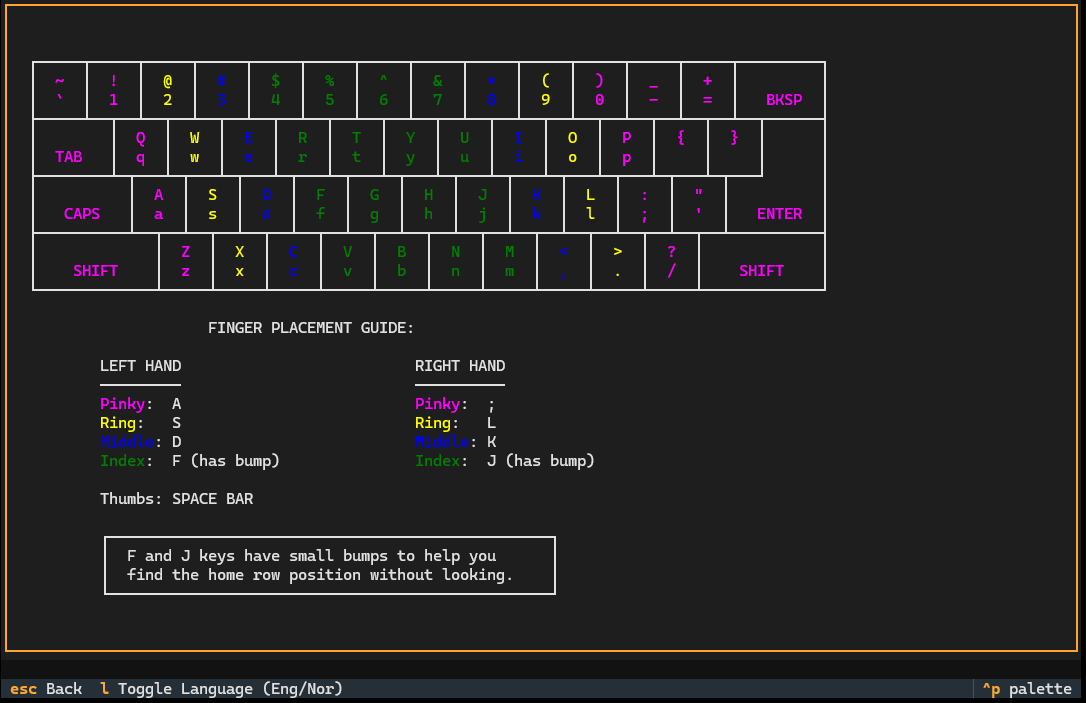
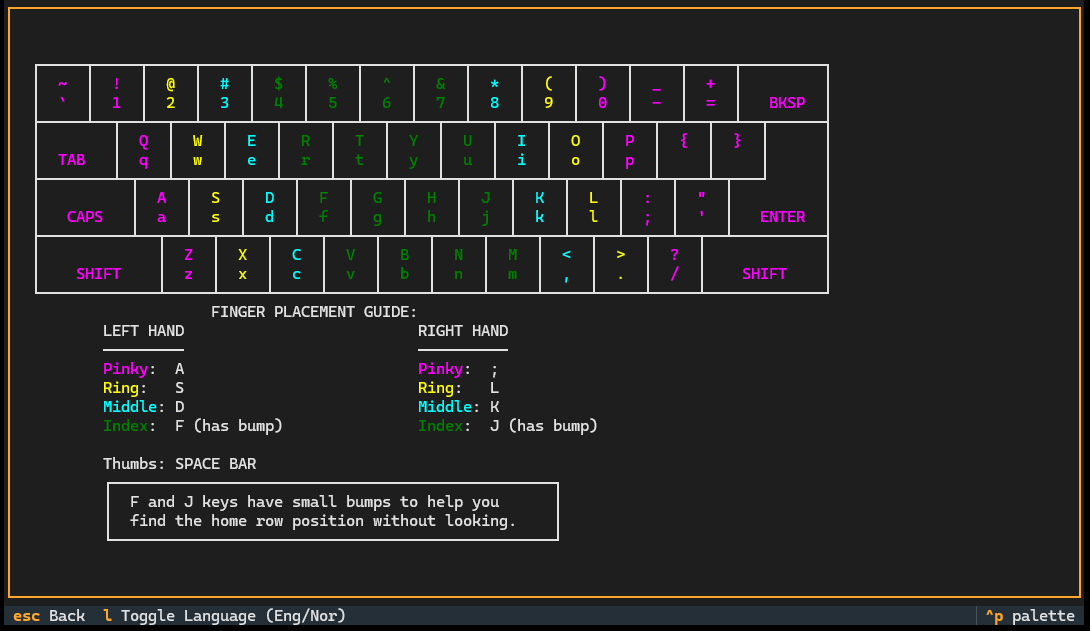
Refactor code structure for improved readability and maintainability

Changed region(s): [[0.0, 0.0, 1.0, 0.9937], [0.0912, 0.5119, 0.5166, 0.8732]]

diff --git a/typing_trainer/views/finger_map_view.py b/typing_trainer/views/finger_map_view.py
@@ -8,30 +8,27 @@ from textual.reactive import reactive
 
 FINGER_MAP_ENGLISH = """
 ┌─────┬─────┬─────┬─────┬─────┬─────┬─────┬─────┬─────┬─────┬─────┬─────┬─────┬─────────┐
-│[magenta]  ~ [/magenta] │[magenta]  ! [/magenta] │[yellow]  @  [/yellow]│[blue]  #  [/blue]│[green]  $  [/green]│[green]  %  [/green]│[green]  ^  [/green]│[green]  &  [/green]│[blue]  *  [/blue]│[yellow]  (  [/yellow]│[magenta]  ) [/magenta] │[magenta]  _ [/magenta] │[magenta]  + [/magenta] │[magenta]        [/magenta] │
-│[magenta]  ` [/magenta] │[magenta]  1 [/magenta] │[yellow]  2  [/yellow]│[blue]  3  [/blue]│[green]  4  [/green]│[green]  5  [/green]│[green]  6  [/green]│[green]  7  [/green]│[blue]  8  [/blue]│[yellow]  9  [/yellow]│[magenta]  0 [/magenta] │[magenta]  - [/magenta] │[magenta]  = [/magenta] │[magenta]   BKSP [/magenta] │
+│[magenta]  ~ [/magenta] │[magenta]  ! [/magenta] │[yellow]  @  [/yellow]│[cyan]  #  [/cyan]│[green]  $  [/green]│[green]  %  [/green]│[green]  ^  [/green]│[green]  &  [/green]│[cyan]  *  [/cyan]│[yellow]  (  [/yellow]│[magenta]  ) [/magenta] │[magenta]  _ [/magenta] │[magenta]  + [/magenta] │[magenta]        [/magenta] │
+│[magenta]  ` [/magenta] │[magenta]  1 [/magenta] │[yellow]  2  [/yellow]│[cyan]  3  [/cyan]│[green]  4  [/green]│[green]  5  [/green]│[green]  6  [/green]│[green]  7  [/green]│[cyan]  8  [/cyan]│[yellow]  9  [/yellow]│[magenta]  0 [/magenta] │[magenta]  - [/magenta] │[magenta]  = [/magenta] │[magenta]   BKSP [/magenta] │
 ├─────┴──┬──┴──┬──┴──┬──┴──┬──┴──┬──┴──┬──┴──┬──┴──┬──┴──┬──┴──┬──┴──┬──┴──┬──┴──┬──────┤
-│[magenta]       [/magenta] │[magenta]  Q [/magenta] │[yellow]  W  [/yellow]│[blue]  E  [/blue]│[green]  R  [/green]│[green]  T  [/green]│[green]  Y  [/green]│[green]  U  [/green]│[blue]  I  [/blue]│[yellow]  O  [/yellow]│[magenta]  P [/magenta] │[magenta]  { [/magenta] │[magenta]  } [/magenta] │[magenta]     [/magenta] │
-│[magenta]  TAB  [/magenta] │[magenta]  q [/magenta] │[yellow]  w  [/yellow]│[blue]  e  [/blue]│[green]  r  [/green]│[green]  t  [/green]│[green]  y  [/green]│[green]  u  [/green]│[blue]  i  [/blue]│[yellow]  o  [/yellow]│[magenta]  p [/magenta] │[magenta]    [/magenta] │[magenta]    [/magenta] │[magenta]     [/magenta] │
+│[magenta]       [/magenta] │[magenta]  Q [/magenta] │[yellow]  W  [/yellow]│[cyan]  E  [/cyan]│[green]  R  [/green]│[green]  T  [/green]│[green]  Y  [/green]│[green]  U  [/green]│[cyan]  I  [/cyan]│[yellow]  O  [/yellow]│[magenta]  P [/magenta] │[magenta]  { [/magenta] │[magenta]  } [/magenta] │[magenta]     [/magenta] │
+│[magenta]  TAB  [/magenta] │[magenta]  q [/magenta] │[yellow]  w  [/yellow]│[cyan]  e  [/cyan]│[green]  r  [/green]│[green]  t  [/green]│[green]  y  [/green]│[green]  u  [/green]│[cyan]  i  [/cyan]│[yellow]  o  [/yellow]│[magenta]  p [/magenta] │[magenta]    [/magenta] │[magenta]    [/magenta] │[magenta]     [/magenta] │
 ├────────┴─┬───┴─┬───┴─┬───┴─┬───┴─┬───┴─┬───┴─┬───┴─┬───┴─┬───┴─┬───┴─┬───┴─┬───┘      │
-│[magenta]         [/magenta] │[magenta]  A [/magenta] │[yellow]  S  [/yellow]│[blue]  D  [/blue]│[green]  F  [/green]│[green]  G  [/green]│[green]  H  [/green]│[green]  J  [/green]│[blue]  K  [/blue]│[yellow]  L  [/yellow]│[magenta]  : [/magenta] │[magenta]  " [/magenta] │[magenta]         [/magenta] │
-│[magenta]   CAPS  [/magenta] │[magenta]  a [/magenta] │[yellow]  s  [/yellow]│[blue]  d  [/blue]│[green]  f  [/green]│[green]  g  [/green]│[green]  h  [/green]│[green]  j  [/green]│[blue]  k  [/blue]│[yellow]  l  [/yellow]│[magenta]  ; [/magenta] │[magenta]  ' [/magenta] │[magenta]   ENTER [/magenta] │
+│[magenta]         [/magenta] │[magenta]  A [/magenta] │[yellow]  S  [/yellow]│[cyan]  D  [/cyan]│[green]  F  [/green]│[green]  G  [/green]│[green]  H  [/green]│[green]  J  [/green]│[cyan]  K  [/cyan]│[yellow]  L  [/yellow]│[magenta]  : [/magenta] │[magenta]  " [/magenta] │[magenta]         [/magenta] │
+│[magenta]   CAPS  [/magenta] │[magenta]  a [/magenta] │[yellow]  s  [/yellow]│[cyan]  d  [/cyan]│[green]  f  [/green]│[green]  g  [/green]│[green]  h  [/green]│[green]  j  [/green]│[cyan]  k  [/cyan]│[yellow]  l  [/yellow]│[magenta]  ; [/magenta] │[magenta]  ' [/magenta] │[magenta]   ENTER [/magenta] │
 ├──────────┴──┬──┴──┬──┴──┬──┴──┬──┴──┬──┴──┬──┴──┬──┴──┬──┴──┬──┴──┬──┴──┬──┴──────────┤
-│[magenta]            [/magenta] │[magenta]  Z [/magenta] │[yellow]  X  [/yellow]│[blue]  C  [/blue]│[green]  V  [/green]│[green]  B  [/green]│[green]  N  [/green]│[green]  M  [/green]│[blue]  <  [/blue]│[yellow]  >  [/yellow]│[magenta]  ? [/magenta] │[magenta]            [/magenta] │
-│[magenta]    SHIFT   [/magenta] │[magenta]  z [/magenta] │[yellow]  x  [/yellow]│[blue]  c  [/blue]│[green]  v  [/green]│[green]  b  [/green]│[green]  n  [/green]│[green]  m  [/green]│[blue]  ,  [/blue]│[yellow]  .  [/yellow]│[magenta]  / [/magenta] │[magenta]    SHIFT   [/magenta] │
+│[magenta]            [/magenta] │[magenta]  Z [/magenta] │[yellow]  X  [/yellow]│[cyan]  C  [/cyan]│[green]  V  [/green]│[green]  B  [/green]│[green]  N  [/green]│[green]  M  [/green]│[cyan]  <  [/cyan]│[yellow]  >  [/yellow]│[magenta]  ? [/magenta] │[magenta]            [/magenta] │
+│[magenta]    SHIFT   [/magenta] │[magenta]  z [/magenta] │[yellow]  x  [/yellow]│[cyan]  c  [/cyan]│[green]  v  [/green]│[green]  b  [/green]│[green]  n  [/green]│[green]  m  [/green]│[cyan]  ,  [/cyan]│[yellow]  .  [/yellow]│[magenta]  / [/magenta] │[magenta]    SHIFT   [/magenta] │
 └─────────────┴─────┴─────┴─────┴─────┴─────┴─────┴─────┴─────┴─────┴─────┴─────────────┘
-
                     FINGER PLACEMENT GUIDE:
-        
         LEFT HAND                          RIGHT HAND
         ─────────                          ──────────
         [magenta]Pinky[/magenta]:  A                          [magenta]Pinky[/magenta]:  ;
         [yellow]Ring[/yellow]:   S                          [yellow]Ring[/yellow]:   L
-        [blue]Middle[/blue]: D                          [blue]Middle[/blue]: K
+        [cyan]Middle[/cyan]: D                          [cyan]Middle[/cyan]: K
         [green]Index[/green]:  F (has bump)               [green]Index[/green]:  J (has bump)
         
         Thumbs: SPACE BAR
-        
         ┌─────────────────────────────────────────────────┐
         │  F and J keys have small bumps to help you      │
         │  find the home row position without looking.    │
@@ -39,32 +36,28 @@ FINGER_MAP_ENGLISH = """
 """
 
 FINGER_MAP_NORWEGIAN = """
-
 ┌─────┬─────┬─────┬─────┬─────┬─────┬─────┬─────┬─────┬─────┬─────┬─────┬─────┬──────────┐
-│[magenta]  ~ [/magenta] │[magenta]  ! [/magenta] │[yellow]  @  [/yellow]│[blue]  #  [/blue]│[green]  $  [/green]│[green]  %  [/green]│[green]  ^  [/green]│[green]  &  [/green]│[blue]  *  [/blue]│[yellow]  (  [/yellow]│[magenta]  ) [/magenta] │[magenta]  _ [/magenta] │[magenta]  + [/magenta] │[magenta]       [/magenta]   │
-│[magenta]  ` [/magenta] │[magenta]  1 [/magenta] │[yellow]  2  [/yellow]│[blue]  3  [/blue]│[green]  4  [/green]│[green]  5  [/green]│[green]  6  [/green]│[green]  7  [/green]│[blue]  8  [/blue]│[yellow]  9  [/yellow]│[magenta]  0 [/magenta] │[magenta]  - [/magenta] │[magenta]  = [/magenta] │[magenta]   BKSP  [/magenta] │
+│[magenta]  ~ [/magenta] │[magenta]  ! [/magenta] │[yellow]  @  [/yellow]│[cyan]  #  [/cyan]│[green]  $  [/green]│[green]  %  [/green]│[green]  ^  [/green]│[green]  &  [/green]│[cyan]  *  [/cyan]│[yellow]  (  [/yellow]│[magenta]  ) [/magenta] │[magenta]  _ [/magenta] │[magenta]  + [/magenta] │[magenta]       [/magenta]   │
+│[magenta]  ` [/magenta] │[magenta]  1 [/magenta] │[yellow]  2  [/yellow]│[cyan]  3  [/cyan]│[green]  4  [/green]│[green]  5  [/green]│[green]  6  [/green]│[green]  7  [/green]│[cyan]  8  [/cyan]│[yellow]  9  [/yellow]│[magenta]  0 [/magenta] │[magenta]  - [/magenta] │[magenta]  = [/magenta] │[magenta]   BKSP  [/magenta] │
 ├─────┴──┬──┴──┬──┴──┬──┴──┬──┴──┬──┴──┬──┴──┬──┴──┬──┴──┬──┴──┬──┴──┬──┴──┬──┴──┬───────┤
-│[magenta]       [/magenta] │[magenta]  Q [/magenta] │[yellow]  W  [/yellow]│[blue]  E  [/blue]│[green]  R  [/green]│[green]  T  [/green]│[green]  Y  [/green]│[green]  U  [/green]│[blue]  I  [/blue]│[yellow]  O  [/yellow]│[magenta]  P [/magenta] │[magenta]  Å [/magenta] │[magenta]  ^ [/magenta] │[magenta]    [/magenta]   │
-│[magenta]  TAB  [/magenta] │[magenta]  q [/magenta] │[yellow]  w  [/yellow]│[blue]  e  [/blue]│[green]  r  [/green]│[green]  t  [/green]│[green]  y  [/green]│[green]  u  [/green]│[blue]  i  [/blue]│[yellow]  o  [/yellow]│[magenta]  p [/magenta] │[magenta]  å [/magenta] │[magenta] ¨ ~[/magenta] │[magenta] ENTER [/magenta]│
+│[magenta]       [/magenta] │[magenta]  Q [/magenta] │[yellow]  W  [/yellow]│[cyan]  E  [/cyan]│[green]  R  [/green]│[green]  T  [/green]│[green]  Y  [/green]│[green]  U  [/green]│[cyan]  I  [/cyan]│[yellow]  O  [/yellow]│[magenta]  P [/magenta] │[magenta]  Å [/magenta] │[magenta]  ^ [/magenta] │[magenta]    [/magenta]   │
+│[magenta]  TAB  [/magenta] │[magenta]  q [/magenta] │[yellow]  w  [/yellow]│[cyan]  e  [/cyan]│[green]  r  [/green]│[green]  t  [/green]│[green]  y  [/green]│[green]  u  [/green]│[cyan]  i  [/cyan]│[yellow]  o  [/yellow]│[magenta]  p [/magenta] │[magenta]  å [/magenta] │[magenta] ¨ ~[/magenta] │[magenta] ENTER [/magenta]│
 ├────────┴─┬───┴─┬───┴─┬───┴─┬───┴─┬───┴─┬───┴─┬───┴─┬───┴─┬───┴─┬───┴─┬───┴─┬───┴─┐     │
-│[magenta]         [/magenta] │[magenta]  A [/magenta] │[yellow]  S  [/yellow]│[blue]  D  [/blue]│[green]  F  [/green]│[green]  G  [/green]│[green]  H  [/green]│[green]  J  [/green]│[blue]  K  [/blue]│[yellow]  L  [/yellow]│[magenta]  Ø [/magenta] │[magenta]  Æ [/magenta] │[magenta]  * [/magenta] │[magenta]    [/magenta] │
-│[magenta]   CAPS  [/magenta] │[magenta]  a [/magenta] │[yellow]  s  [/yellow]│[blue]  d  [/blue]│[green]  f  [/green]│[green]  g  [/green]│[green]  h  [/green]│[green]  j  [/green]│[blue]  k  [/blue]│[yellow]  l  [/yellow]│[magenta]  ø [/magenta] │[magenta]  æ [/magenta] │[magenta]  ' [/magenta] │[magenta]    [/magenta] │
+│[magenta]         [/magenta] │[magenta]  A [/magenta] │[yellow]  S  [/yellow]│[cyan]  D  [/cyan]│[green]  F  [/green]│[green]  G  [/green]│[green]  H  [/green]│[green]  J  [/green]│[cyan]  K  [/cyan]│[yellow]  L  [/yellow]│[magenta]  Ø [/magenta] │[magenta]  Æ [/magenta] │[magenta]  * [/magenta] │[magenta]    [/magenta] │
+│[magenta]   CAPS  [/magenta] │[magenta]  a [/magenta] │[yellow]  s  [/yellow]│[cyan]  d  [/cyan]│[green]  f  [/green]│[green]  g  [/green]│[green]  h  [/green]│[green]  j  [/green]│[cyan]  k  [/cyan]│[yellow]  l  [/yellow]│[magenta]  ø [/magenta] │[magenta]  æ [/magenta] │[magenta]  ' [/magenta] │[magenta]    [/magenta] │
 ├──────────┴──┬──┴──┬──┴──┬──┴──┬──┴──┬──┴──┬──┴──┬──┴──┬──┴──┬──┴──┬──┴──┬──┴─────┴─────┤
-│[magenta]            [/magenta] │[magenta]  Z [/magenta] │[yellow]  X  [/yellow]│[blue]  C  [/blue]│[green]  V  [/green]│[green]  B  [/green]│[green]  N  [/green]│[green]  M  [/green]│[blue]  ;  [/blue]│[yellow]  :  [/yellow]│[magenta]  - [/magenta] │[magenta]             [/magenta] │
-│[magenta]    SHIFT   [/magenta] │[magenta]  z [/magenta] │[yellow]  x  [/yellow]│[blue]  c  [/blue]│[green]  v  [/green]│[green]  b  [/green]│[green]  n  [/green]│[green]  m  [/green]│[blue]  ,  [/blue]│[yellow]  .  [/yellow]│[magenta]  - [/magenta] │[magenta]    SHIFT    [/magenta] │
+│[magenta]            [/magenta] │[magenta]  Z [/magenta] │[yellow]  X  [/yellow]│[cyan]  C  [/cyan]│[green]  V  [/green]│[green]  B  [/green]│[green]  N  [/green]│[green]  M  [/green]│[cyan]  ;  [/cyan]│[yellow]  :  [/yellow]│[magenta]  - [/magenta] │[magenta]             [/magenta] │
+│[magenta]    SHIFT   [/magenta] │[magenta]  z [/magenta] │[yellow]  x  [/yellow]│[cyan]  c  [/cyan]│[green]  v  [/green]│[green]  b  [/green]│[green]  n  [/green]│[green]  m  [/green]│[cyan]  ,  [/cyan]│[yellow]  .  [/yellow]│[magenta]  - [/magenta] │[magenta]    SHIFT    [/magenta] │
 └─────────────┴─────┴─────┴─────┴─────┴─────┴─────┴─────┴─────┴─────┴─────┴──────────────┘
-
                     PLASSERING AV FINGRE:
-        
         VENSTRE HÅND                       HØYRE HÅND
         ────────────                       ──────────
         [magenta]Lillefinger[/magenta]:  A                    [magenta]Lillefinger[/magenta]:  ;
         [yellow]Ringfinger[/yellow]:   S                    [yellow]Ringfinger[/yellow]:   L
-        [blue]Langfinger[/blue]:   D                    [blue]Langfinger[/blue]:   K
+        [cyan]Langfinger[/cyan]:   D                    [cyan]Langfinger[/cyan]:   K
         [green]Pekefinger[/green]:   F (har markering)    [green]Pekefinger[/green]:   J (har markering)
         
         Tommelfingre: MELLOMROMSTAST
-        
         ┌─────────────────────────────────────────────────┐
         │  F- og J-tastene har små markeringer for å      │
         │  hjelpe deg finne grunnposisjonen uten å se.    │

diff --git a/typing_trainer/views/custom_exercise_view.py b/typing_trainer/views/custom_exercise_view.py
@@ -7,61 +7,47 @@ from textual.reactive import reactive
 
 INSTRUCTIONS_NORWEGIAN = """
 [bold yellow]Hvordan legge til egne øvelser[/]
-
 TouchPy lar deg legge til egne treningsfiler.
-
 [bold green]Steg 1: Opprett mappe[/]
 Lag en mappe kalt `exercises` i samme mappe som `TouchPy.exe`.
-
 [bold green]Steg 2: Lag en tekstfil[/]
 Lag en `.txt` fil inne i den nye mappen (f.eks `min_tekst.txt`).
-
 [bold green]Steg 3: Filformat[/]
 Filen må følge dette formatet:
-
 1. [italic]Valgfritt:[/ italic] `Language: Norwegian` eller `Language: English` på første linje.
 2. Tittel på øvelsen på neste linje.
 3. Selve teksten som skal skrives.
-
 [bold cyan]Eksempel på filinnhold:[/]
 Language: Norwegian
 Min egen øvelse
 Dette er teksten som skal skrives.
-
 [bold green]Steg 4: Start på nytt[/]
 Start TouchPy på nytt, og øvelsen vil dukke opp i listen!
 """
 
 INSTRUCTIONS_ENGLISH = """
 [bold yellow]How to Add Custom Exercises[/]
-
 TouchPy allows you to add your own exercise files.
-
 [bold green]Step 1: Create Folder[/]
 Create a folder named `exercises` next to `TouchPy.exe`.
-
 [bold green]Step 2: Create Text File[/]
 Create a `.txt` file inside that folder (e.g., `my_text.txt`).
-
 [bold green]Step 3: File Format[/]
 The file must follow this format:
-
 1. [italic]Optional:[/ italic] `Language: English` or `Language: Norwegian` on the first line.
 2. The title of the exercise on the next line.
 3. The actual text to type.
-
 [bold cyan]Example File Content:[/]
 Language: English
 My Custom Exercise
 This is the text that should be typed.
-
 [bold green]Step 4: Restart[/]
 Restart TouchPy, and your exercise will appear in the list!
 """
 
 class CustomExerciseInstructionsView(Screen):
     """Screen showing instructions for custom exercises."""
-    
+
     BINDINGS = [
         Binding("escape", "back", "Back"),
         Binding("m", "back", "Back to Menu"),
@@ -77,7 +63,7 @@ class CustomExerciseInstructionsView(Screen):
     }
     
     #content {
-        width: 80;
+        width: 100%;
         height: auto;
         border: solid $accent;
         padding: 1 2;
